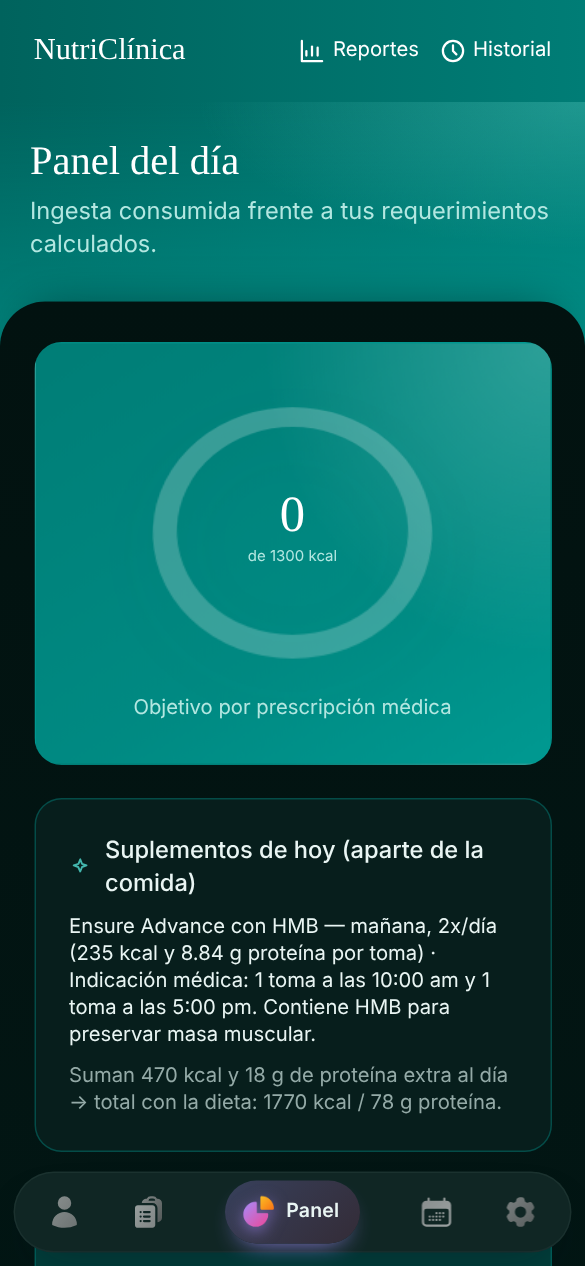
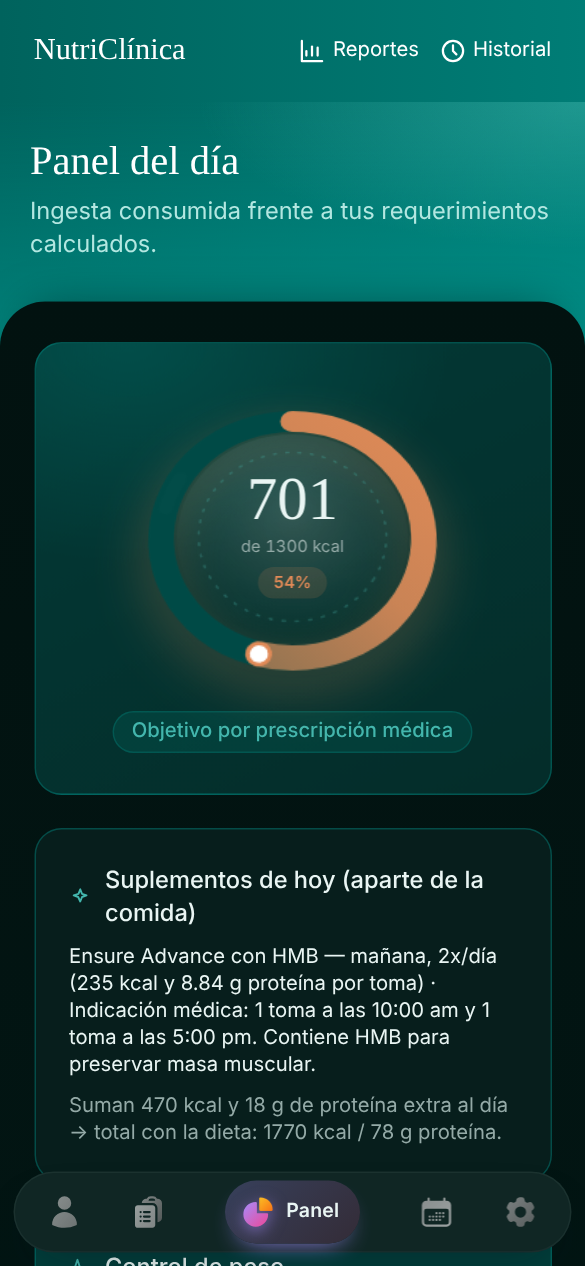
Anillo y barras con más movimiento, mosaicos de metas, colores propios por nutriente en Menú y tarjeta del Panel en tono suave
Claude-Session: https://claude.ai/code/session_01Ry9ro83pXd3TsfEs66nLcN

diff --git a/index.html b/index.html
@@ -71,14 +71,14 @@
     --brand: var(--tone-600); --brand-text: var(--tone-700); --brand-soft: var(--tint);
     --brand-glow: color-mix(in srgb, var(--tone-500) 32%, transparent);
     --track: var(--selected); --chip-border: var(--border); --chip-active-bg: var(--tone-600); --chip-active-text: #FFFFFF;
-    --accent-energy: #D96C3F; --accent-protein: #C79A3D; --accent-carb: #6C8F63; --accent-fat: #4E7089;
+    --accent-energy: #D96C3F; --accent-protein: #C79A3D; --accent-carb: #6C8F63; --accent-fat: #4E7089; --accent-fiber: #8E6BB0;
     --warn: #B23B3B; --warn-bg: #F6E7E4;
   }
   body[data-tema="oscuro"] {
     --input-bg: color-mix(in srgb, var(--surface) 78%, white);
     --brand-text: var(--accent);
     --chip-active-bg: var(--accent); --chip-active-text: var(--on-accent);
-    --accent-energy: #E08A57; --accent-protein: #D9B563; --accent-carb: #83B276; --accent-fat: #77A0C7;
+    --accent-energy: #E08A57; --accent-protein: #D9B563; --accent-carb: #83B276; --accent-fat: #77A0C7; --accent-fiber: #B093D4;
     --warn: #E58080; --warn-bg: #3A2328;
   }
   html { font-size: 18px; }
@@ -117,6 +117,45 @@
   .nutri-sheet > .nutri-panel:not(.nutri-hero-card):nth-child(3n+1) { background: var(--cardtone-1); }
   .nutri-sheet > .nutri-panel:not(.nutri-hero-card):nth-child(3n+2) { background: var(--cardtone-2); }
   .nutri-sheet > .nutri-panel:not(.nutri-hero-card):nth-child(3n+3) { background: var(--cardtone-3); }
+
+  /* Tarjeta del anillo de calorías: misma paleta pero en tono suave, para no competir con el encabezado. */
+  .nutri-sheet > .nutri-panel.nutri-gauge-card { border-color: color-mix(in srgb, var(--tone-300) 60%, transparent); position: relative; overflow: hidden;
+    background: radial-gradient(90% 70% at 18% 0%, color-mix(in srgb, #fff 55%, transparent), transparent 70%),
+                linear-gradient(155deg, color-mix(in srgb, var(--tone-100) 85%, var(--surface)) 0%, color-mix(in srgb, var(--tone-200) 78%, var(--surface)) 100%); }
+  body[data-tema="oscuro"] .nutri-sheet > .nutri-panel.nutri-gauge-card { border-color: color-mix(in srgb, var(--tone-500) 34%, transparent);
+    background: radial-gradient(90% 70% at 18% 0%, color-mix(in srgb, var(--tone-500) 22%, transparent), transparent 70%),
+                linear-gradient(155deg, color-mix(in srgb, var(--selected) 62%, var(--surface)) 0%, color-mix(in srgb, var(--tint) 85%, var(--surface)) 100%); }
+  .nutri-pildora { padding: 4px 12px; border-radius: 999px; font-weight: 500; color: var(--brand-text);
+    background: color-mix(in srgb, var(--tone-500) 14%, transparent); border: 1px solid color-mix(in srgb, var(--tone-500) 26%, transparent); }
+  .nutri-gauge-pct { font-size: 11px; font-weight: 600; padding: 2px 10px; border-radius: 999px; color: var(--gauge-color);
+    background: color-mix(in srgb, var(--gauge-color) 14%, transparent); }
+  .nutri-gauge-orbita { color: var(--brand-text); animation: nutriOrbita 40s linear infinite; }
+  @keyframes nutriOrbita { to { transform: rotate(360deg); } }
+  .nutri-gauge-destello { animation: nutriDestello 3.4s cubic-bezier(.4,0,.2,1) 1.4s infinite; }
+  @keyframes nutriDestello { 0% { transform: rotate(0deg); opacity: 0; } 12% { opacity: 1; } 70%, 100% { transform: rotate(var(--vuelta, 360deg)); opacity: 0; } }
+  .nutri-gauge-ok { animation: nutriLogro 1.1s cubic-bezier(.34,1.56,.64,1) 1.1s 1; }
+  @keyframes nutriLogro { 0% { transform: scale(1); } 35% { transform: scale(1.07); } 100% { transform: scale(1); } }
+  .nutri-gauge-ok::after { content: ""; position: absolute; inset: 4%; border-radius: 50%; border: 2px solid var(--gauge-color); opacity: 0; pointer-events: none; animation: nutriOnda 1.4s ease-out 1.15s 1; }
+  @keyframes nutriOnda { 0% { transform: scale(.9); opacity: .7; } 100% { transform: scale(1.3); opacity: 0; } }
+  /* Mosaico de cada nutriente en "Cumplimiento de metas de hoy". */
+  .nutri-metrica { --track: color-mix(in srgb, var(--m) 20%, transparent); background: linear-gradient(160deg, color-mix(in srgb, var(--m) 14%, var(--panel-bg)) 0%, color-mix(in srgb, var(--m) 5%, var(--panel-bg)) 100%);
+    border: 1px solid color-mix(in srgb, var(--m) 30%, transparent); animation: nutriSube .5s cubic-bezier(.22,1,.36,1) both;
+    transition: transform .2s cubic-bezier(.34,1.56,.64,1), box-shadow .25s; }
+  .nutri-metrica:active { transform: scale(.96); }
+  .nutri-metrica:hover { box-shadow: 0 10px 24px -14px var(--m); }
+  .nutri-metrica-chip { font-size: 11px; font-weight: 500; padding: 2px 10px; border-radius: 999px; color: var(--muted);
+    background: color-mix(in srgb, var(--m) 12%, transparent); }
+  .nutri-metrica-chip.ok { color: #2F7A4B; background: color-mix(in srgb, #3E8E5A 16%, transparent); }
+  body[data-tema="oscuro"] .nutri-metrica-chip.ok { color: #8FD3A6; }
+  /* Barras: crecen con resorte y tienen un brillo que las recorre. */
+  .nutri-bar-fill { position: relative; overflow: hidden; transition: width .9s cubic-bezier(.22,1.2,.36,1); }
+  .nutri-bar-fill::before { content: ""; position: absolute; inset: 0; background: linear-gradient(180deg, rgb(255 255 255 / .28), rgb(255 255 255 / 0) 60%); }
+  .nutri-bar-fill::after { content: ""; position: absolute; top: 0; bottom: 0; width: 40%; left: -40%; background: linear-gradient(90deg, transparent, rgb(255 255 255 / .45), transparent); animation: nutriBarraBrillo 3.2s ease-in-out 1.2s infinite; }
+  @keyframes nutriBarraBrillo { 0% { left: -40%; } 55%, 100% { left: 140%; } }
+  @media (prefers-reduced-motion: reduce) {
+    .nutri-gauge-orbita, .nutri-gauge-destello, .nutri-gauge-ok, .nutri-gauge-ok::after, .nutri-bar-fill::after { animation: none !important; }
+    .nutri-gauge-destello { display: none; }
+  }
   .nutri-swatch { width: 36px; height: 36px; border-radius: 50%; border: 0; box-shadow: inset 0 0 0 2px rgb(255 255 255 / .28); transition: transform .25s cubic-bezier(.34,1.56,.64,1), box-shadow .25s; }
   .nutri-swatch[aria-pressed="true"] { transform: scale(1.14); box-shadow: inset 0 0 0 2px rgb(255 255 255 / .35), 0 0 0 3px var(--panel-bg), 0 0 0 5px var(--ink); }
   .nutri-ink { color: var(--ink); }
@@ -127,6 +166,7 @@
   .nutri-accent-protein { background: var(--accent-protein); }
   .nutri-accent-carb { background: var(--accent-carb); }
   .nutri-accent-fat { background: var(--accent-fat); }
+  .nutri-accent-fiber { background: var(--accent-fiber); }
   .nutri-warn { color: var(--warn); }
   .nutri-warn-bg { background: var(--warn-bg); }
   .nutri-track { background: var(--track); }
@@ -1347,12 +1387,14 @@ function SugeridorIngrediente({ requerimiento }) {
 }
 
 /* ---------- Componentes visuales ---------- */
-function Bar({ value, max, colorClass }) {
+function Bar({ value, max, colorClass, marcarExceso = true }) {
   const pct = max > 0 ? Math.min((value / max) * 100, 100) : 0;
-  const over = max > 0 && value > max;
+  const over = marcarExceso && max > 0 && value > max;
+  const [m, setM] = useState(false);
+  useEffect(() => { setM(false); const t = setTimeout(() => setM(true), 80); return () => clearTimeout(t); }, [value, max]);
   return (
-    <div className="h-2 w-full rounded-full nutri-track overflow-hidden">
-      <div className={`h-full rounded-full ${over ? "" : colorClass}`} style={{ width: `${pct}%`, background: over ? "#B23B3B" : undefined }} />
+    <div className="h-2.5 w-full rounded-full nutri-track overflow-hidden">
+      <div className={`h-full rounded-full nutri-bar-fill ${over ? "" : colorClass}`} style={{ width: m ? `${pct}%` : "0%", background: over ? "#B23B3B" : undefined }} />
     </div>
   );
 }
@@ -1391,12 +1433,32 @@ function BarraContribucion({ pct, color }) {
 }
 
 /* Un solo tipo de gráfico (gauge radial con inclinación 3D y sombra) reutilizado en Panel,
-   Historial y el objetivo calórico — así todo el cumplimiento se lee con el mismo lenguaje visual. */
+   Historial y el objetivo calórico — así todo el cumplimiento se lee con el mismo lenguaje visual.
+   Movimiento: el arco se dibuja con resorte, una perla viaja en su punta, el número cuenta hasta su
+   valor, un destello recorre el anillo y, al llegar al 100 %, el anillo pulsa una vez. */
+function useContar(valor, dur = 1000, retraso = 0) {
+  const [v, setV] = useState(0);
+  useEffect(() => {
+    const reducir = typeof window !== "undefined" && window.matchMedia && window.matchMedia("(prefers-reduced-motion: reduce)").matches;
+    if (reducir) { setV(valor); return; }
+    let raf, t0 = null;
+    const paso = (t) => {
+      if (t0 === null) t0 = t;
+      const p = Math.min(Math.max((t - t0 - retraso) / dur, 0), 1);
+      setV(valor * (1 - Math.pow(1 - p, 3)));
+      if (p < 1) raf = requestAnimationFrame(paso);
+    };
+    setV(0);
+    raf = requestAnimationFrame(paso);
+    return () => cancelAnimationFrame(raf);
+  }, [valor, dur, retraso]);
+  return v;
+}
 function GaugeRadial({ label, valor, meta, unidad, color, tamano = "md", modo = "porcentaje", animarDelay = 0 }) {
-  const size = tamano === "lg" ? 190 : tamano === "md" ? 128 : 92;
-  const grosor = tamano === "lg" ? 16 : tamano === "md" ? 11 : 8;
+  const size = tamano === "lg" ? 200 : tamano === "md" ? 124 : 92;
+  const grosor = tamano === "lg" ? 17 : tamano === "md" ? 11 : 8;
   const centro = size / 2;
-  const r = centro - grosor / 2 - 2;
+  const r = centro - grosor / 2 - 4;
   const c = 2 * Math.PI * r;
   const [montado, setMontado] = useState(false);
   useEffect(() => {
@@ -1406,18 +1468,38 @@ function GaugeRadial({ label, valor, meta, unidad, color, tamano = "md", modo = 
   }, [valor, meta, animarDelay]);
   const pctReal = meta > 0 ? valor / meta : 0;
   const pct = montado ? Math.min(pctReal, 1) : 0;
+  const cumplida = pctReal >= 1;
   const pctMostrado = meta > 0 ? Math.round(pctReal * 100) : 0;
+  const contado = useContar(modo === "numero" ? valor : pctMostrado, 1100, animarDelay);
   const idGrad = `grad-${label.replace(/\s+/g, "")}-${tamano}`;
+  const idBrillo = `brillo-${label.replace(/\s+/g, "")}-${tamano}`;
+  const transicion = `1.15s cubic-bezier(.22,1.2,.36,1) ${animarDelay}ms`;
+  const grande = tamano === "lg";
   return (
-    <div className="anillos-3d relative shrink-0" style={{ width: size, height: size }}>
-      <svg width={size} height={size} viewBox={`0 0 ${size} ${size}`} className="anillos-3d-svg" style={{ filter: `drop-shadow(0 ${tamano === "lg" ? 12 : 7}px ${tamano === "lg" ? 18 : 11}px rgba(20,67,60,0.22))` }}>
+    <div className={`anillos-3d relative shrink-0 ${cumplida && montado ? "nutri-gauge-ok" : ""}`} style={{ width: size, height: size, "--gauge-color": color }}>
+      <svg width={size} height={size} viewBox={`0 0 ${size} ${size}`} className="anillos-3d-svg" style={{ filter: `drop-shadow(0 ${grande ? 12 : 7}px ${grande ? 16 : 10}px color-mix(in srgb, ${color} 34%, transparent))`, overflow: "visible" }}>
         <defs>
           <linearGradient id={idGrad} x1="0%" y1="0%" x2="100%" y2="100%">
-            <stop offset="0%" stopColor={color} stopOpacity="0.7" />
+            <stop offset="0%" stopColor={color} stopOpacity="0.55" />
+            <stop offset="55%" stopColor={color} stopOpacity="0.9" />
             <stop offset="100%" stopColor={color} stopOpacity="1" />
           </linearGradient>
+          <radialGradient id={idBrillo} cx="50%" cy="38%" r="60%">
+            <stop offset="0%" stopColor="#FFFFFF" stopOpacity="0.16" />
+            <stop offset="100%" stopColor="#FFFFFF" stopOpacity="0" />
+          </radialGradient>
         </defs>
+        {/* disco interior con brillo suave */}
+        <circle cx={centro} cy={centro} r={r - grosor / 2 - 2} fill={`url(#${idBrillo})`} />
+        {/* órbita decorativa que gira despacio */}
+        {grande && (
+          <g className="nutri-gauge-orbita" style={{ transformOrigin: `${centro}px ${centro}px` }}>
+            <circle cx={centro} cy={centro} r={r - grosor - 8} fill="none" stroke="currentColor" strokeOpacity="0.28" strokeWidth="1.5" strokeDasharray="1.5 7" strokeLinecap="round" />
+          </g>
+        )}
+        {/* pista */}
         <circle cx={centro} cy={centro} r={r} fill="none" stroke="var(--track)" strokeWidth={grosor} />
+        {/* arco de progreso */}
         <circle
           cx={centro} cy={centro} r={r} fill="none"
           stroke={`url(#${idGrad})`}
@@ -1426,19 +1508,33 @@ function GaugeRadial({ label, valor, meta, unidad, color, tamano = "md", modo = 
           strokeDashoffset={c - pct * c}
           strokeLinecap="round"
           transform={`rotate(-90 ${centro} ${centro})`}
-          style={{ transition: `stroke-dashoffset 1s cubic-bezier(.22,1,.36,1) ${animarDelay}ms` }}
+          style={{ transition: `stroke-dashoffset ${transicion}` }}
         />
+        {/* destello que recorre el arco */}
+        {pct > 0.02 && (
+          <circle
+            cx={centro} cy={centro} r={r} fill="none" stroke="#FFFFFF" strokeOpacity="0.55" strokeWidth={Math.max(grosor - 8, 3)}
+            strokeLinecap="round" strokeDasharray={`${c * 0.045} ${c}`}
+            transform={`rotate(-90 ${centro} ${centro})`} className="nutri-gauge-destello"
+            style={{ transformOrigin: `${centro}px ${centro}px`, "--vuelta": `${pct * 360}deg` }}
+          />
+        )}
+        {/* perla en la punta del arco */}
+        <g style={{ transformOrigin: `${centro}px ${centro}px`, transform: `rotate(${pct * 360}deg)`, transition: `transform ${transicion}`, opacity: pct > 0 ? 1 : 0 }}>
+          <circle cx={centro} cy={centro - r} r={grosor / 2 - 1.5} fill="#FFFFFF" stroke={color} strokeWidth="2.5" />
+        </g>
       </svg>
-      <div className="absolute inset-0 flex flex-col items-center justify-center pointer-events-none px-2">
+      <div className="absolute inset-0 flex flex-col items-center justify-center pointer-events-none px-2 tabular-nums">
         {modo === "numero" ? (
           <>
-            <span className={tamano === "lg" ? "nutri-serif text-3xl nutri-ink" : "nutri-serif text-base nutri-ink"}>{Math.round(valor)}</span>
-            <span className="text-[10px] nutri-muted text-center leading-tight">de {Math.round(meta)} {unidad}</span>
+            <span className={grande ? "nutri-serif text-4xl nutri-ink leading-none" : "nutri-serif text-base nutri-ink"}>{Math.round(contado)}</span>
+            <span className="text-[11px] nutri-muted text-center leading-tight mt-1">de {Math.round(meta)} {unidad}</span>
+            {grande && <span className="nutri-gauge-pct mt-1.5">{pctMostrado >= 100 ? "¡meta cumplida!" : `${pctMostrado}%`}</span>}
           </>
         ) : (
           <>
-            <span className={tamano === "lg" ? "nutri-serif text-3xl nutri-ink" : tamano === "md" ? "nutri-serif text-lg nutri-ink" : "text-sm font-medium nutri-ink"}>{pctMostrado}%</span>
-            {tamano === "lg" && <span className="text-[11px] nutri-muted text-center leading-tight">{pctMostrado >= 100 ? "¡meta cumplida!" : "de tu meta"}</span>}
+            <span className={grande ? "nutri-serif text-4xl nutri-ink leading-none" : tamano === "md" ? "nutri-serif text-xl nutri-ink leading-none" : "text-sm font-medium nutri-ink"}>{Math.round(contado)}<span className={grande ? "text-lg" : "text-xs"}>%</span></span>
+            {grande && <span className="text-[11px] nutri-muted text-center leading-tight mt-1">{pctMostrado >= 100 ? "¡meta cumplida!" : "de tu meta"}</span>}
           </>
         )}
       </div>
@@ -1500,13 +1596,16 @@ function PanelMetas({ totales, requerimiento, tamanoGrid = "md", log }) {
 
   return (
     <div key="lista" className="nutri-fade-in">
-      <div className="grid grid-cols-2 gap-x-2 gap-y-4 justify-items-center py-2">
+      <div className="grid grid-cols-2 gap-3 py-2">
         {metricas.map((m, i) => {
           const pct = m.meta > 0 ? Math.round((m.valor / m.meta) * 100) : 0;
+          const cumplida = pct >= 100;
           return (
-            <button key={m.key} onClick={() => setSeleccionado(i)} className="flex flex-col items-center">
-              <GaugeRadial label={m.label} valor={m.valor} meta={m.meta} unidad={m.unidad} color={m.color} tamano={tamanoGrid} modo="porcentaje" animarDelay={i * 100} />
-              <span className="text-xs nutri-muted mt-1.5">{m.label} · {pct}%{pct >= 100 ? " ✓" : ""}</span>
+            <button key={m.key} onClick={() => setSeleccionado(i)} className="nutri-metrica flex flex-col items-center rounded-2xl px-2 pt-3 pb-3" style={{ "--m": m.color, animationDelay: `${i * 90}ms` }}>
+              <GaugeRadial label={m.label} valor={m.valor} meta={m.meta} unidad={m.unidad} color={m.color} tamano={tamanoGrid} modo="porcentaje" animarDelay={i * 110} />
+              <span className="text-sm font-medium nutri-ink mt-2">{m.label}</span>
+              <span className="text-[11px] nutri-muted tabular-nums">{Math.round(m.valor)} / {Math.round(m.meta)} {m.unidad}</span>
+              <span className={`nutri-metrica-chip mt-1.5 ${cumplida ? "ok" : ""}`}>{cumplida ? "✓ Cumplida" : `Falta ${Math.max(100 - pct, 0)} %`}</span>
             </button>
           );
         })}
@@ -3662,7 +3761,7 @@ function PantallaDashboard({ requerimiento, log, perfil, pesos, agregarPeso, imp
   const deltaPeso = ultimoPeso && pesoAnterior ? ultimoPeso.pesoKg - pesoAnterior.pesoKg : null;
   const fila = (label, val, max, unidad, colorClass) => (
     <div className="mb-4">
-      <div className="flex justify-between text-xs mb-1.5"><span className="nutri-ink font-medium">{label}</span><span className="nutri-muted">{Math.round(val)} / {Math.round(max)} {unidad}</span></div>
+      <div className="flex justify-between items-center text-xs mb-1.5"><span className="nutri-ink font-medium flex items-center gap-1.5"><span className={`inline-block w-2.5 h-2.5 rounded-full ${colorClass}`} />{label}</span><span className="nutri-muted tabular-nums">{Math.round(val)} / {Math.round(max)} {unidad} · <b className="nutri-ink font-semibold">{max > 0 ? Math.round((val / max) * 100) : 0}%</b></span></div>
       <Bar value={val} max={max} colorClass={colorClass} />
     </div>
   );
@@ -3674,10 +3773,10 @@ function PantallaDashboard({ requerimiento, log, perfil, pesos, agregarPeso, imp
       </div>
       <div className="nutri-sheet px-5 pt-6 pb-24">
       <AlertaInicioDia requerimiento={requerimiento} />
-      <div className="nutri-panel nutri-hero-card rounded-2xl p-6 flex flex-col items-center mb-5">
+      <div className="nutri-panel nutri-gauge-card rounded-2xl p-6 flex flex-col items-center mb-5">
         <GaugeRadial label="Calorías" valor={totales.kcal} meta={requerimiento.get} unidad="kcal" color="var(--accent-energy)" tamano="lg" modo="numero" />
         <div className="flex gap-4 mt-4 text-xs nutri-muted">
-          {requerimiento.prescripcionActiva ? <span>Objetivo por prescripción médica</span> : <><span>GEB {requerimiento.geb} kcal</span><span>·</span><span>GET {requerimiento.get} kcal</span></>}
+          {requerimiento.prescripcionActiva ? <span className="nutri-pildora">Objetivo por prescripción médica</span> : <><span className="nutri-pildora">GEB {requerimiento.geb} kcal</span><span className="nutri-pildora">GET {requerimiento.get} kcal</span></>}
         </div>
       </div>
 
@@ -3796,7 +3895,7 @@ function PantallaDashboard({ requerimiento, log, perfil, pesos, agregarPeso, imp
         {fila("Proteínas", totales.proteinasG, requerimiento.proteinasG, "g", "nutri-accent-protein")}
         {fila("Carbohidratos", totales.carbohidratosG, requerimiento.carbohidratosG, "g", "nutri-accent-carb")}
         {fila("Grasas", totales.grasasG, requerimiento.grasasG, "g", "nutri-accent-fat")}
-        {fila("Fibra", totales.fibraG, requerimiento.fibraG, "g", "nutri-accent-carb")}
+        {fila("Fibra", totales.fibraG, requerimiento.fibraG, "g", "nutri-accent-fiber")}
         {fila("Sodio", totales.sodioMg, requerimiento.sodioMg, "mg", "nutri-accent-energy")}
       </div>
       <div className="nutri-panel rounded-2xl p-5">
@@ -4096,20 +4195,21 @@ function PantallaMenu({ requerimiento, pacienteId, onErrorSync, pasarARegistro }
       {copiadoOk && <p className="text-xs mb-2" style={{ color: "#3E8E5A" }}>✓ Menú copiado a tu registro de {NOMBRE_DIA_LARGO(activo.fecha)}. Ahora solo ajusta cantidades ahí si algo cambió.</p>}
       <div className="nutri-panel rounded-xl p-4 mb-5">
         {[
-          { label: "Calorías", unidad: "kcal", meta: requerimiento.get, actual: totalEfectivo.kcal },
-          { label: "Proteína", unidad: "g", meta: requerimiento.proteinasG, actual: totalEfectivo.proteinasG },
-          { label: "Carbohidratos", unidad: "g", meta: requerimiento.carbohidratosG, actual: totalEfectivo.carbohidratosG },
-          { label: "Grasas", unidad: "g", meta: requerimiento.grasasG, actual: totalEfectivo.grasasG },
-          { label: "Fibra", unidad: "g", meta: requerimiento.fibraG, actual: totalEfectivo.fibraG },
+          { label: "Calorías", unidad: "kcal", meta: requerimiento.get, actual: totalEfectivo.kcal, cls: "nutri-accent-energy" },
+          { label: "Proteína", unidad: "g", meta: requerimiento.proteinasG, actual: totalEfectivo.proteinasG, cls: "nutri-accent-protein" },
+          { label: "Carbohidratos", unidad: "g", meta: requerimiento.carbohidratosG, actual: totalEfectivo.carbohidratosG, cls: "nutri-accent-carb" },
+          { label: "Grasas", unidad: "g", meta: requerimiento.grasasG, actual: totalEfectivo.grasasG, cls: "nutri-accent-fat" },
+          { label: "Fibra", unidad: "g", meta: requerimiento.fibraG, actual: totalEfectivo.fibraG, cls: "nutri-accent-fiber" },
         ].map((n, i) => {
           const cumplido = n.actual >= n.meta;
           return (
             <div key={i} className="py-2" style={{ borderTop: i > 0 ? "1px solid var(--panel-border)" : "none" }}>
-              <div className="flex items-center justify-between mb-0.5">
-                <span className="text-xs font-medium nutri-ink">{n.label}</span>
+              <div className="flex items-center justify-between mb-1">
+                <span className="text-xs font-medium nutri-ink flex items-center gap-1.5"><span className={`inline-block w-2.5 h-2.5 rounded-full ${n.cls}`} />{n.label}</span>
                 {cumplido ? <span className="text-xs" style={{ color: "#3E8E5A" }}>✅ Cumplido</span> : <span className="text-xs nutri-warn">⚠ Ajustar</span>}
               </div>
-              <div className="flex items-center justify-between text-xs nutri-muted">
+              <Bar value={n.actual} max={n.meta} colorClass={n.cls} marcarExceso={false} />
+              <div className="flex items-center justify-between text-xs nutri-muted mt-1">
                 <span>Meta: {Math.round(n.meta)} {n.unidad}</span>
                 <span>Menú: {Math.round(n.actual)} {n.unidad}</span>
               </div>
@@ -4119,8 +4219,8 @@ function PantallaMenu({ requerimiento, pacienteId, onErrorSync, pasarARegistro }
       </div>
 
       <div className="space-y-4">
-        {menuEfectivo.map((m) => (
-          <div key={m.key} className="nutri-panel rounded-2xl p-5">
+        {menuEfectivo.map((m, mi) => (
+          <div key={m.key} className="nutri-panel rounded-2xl p-5" style={{ borderLeft: `5px solid var(--tone-${[400, 500, 600, 700][mi % 4]})` }}>
             <div className="flex items-center justify-between mb-3">
               <span className="text-sm font-medium nutri-ink">{m.label}</span>
               <div className="flex items-center gap-2">
